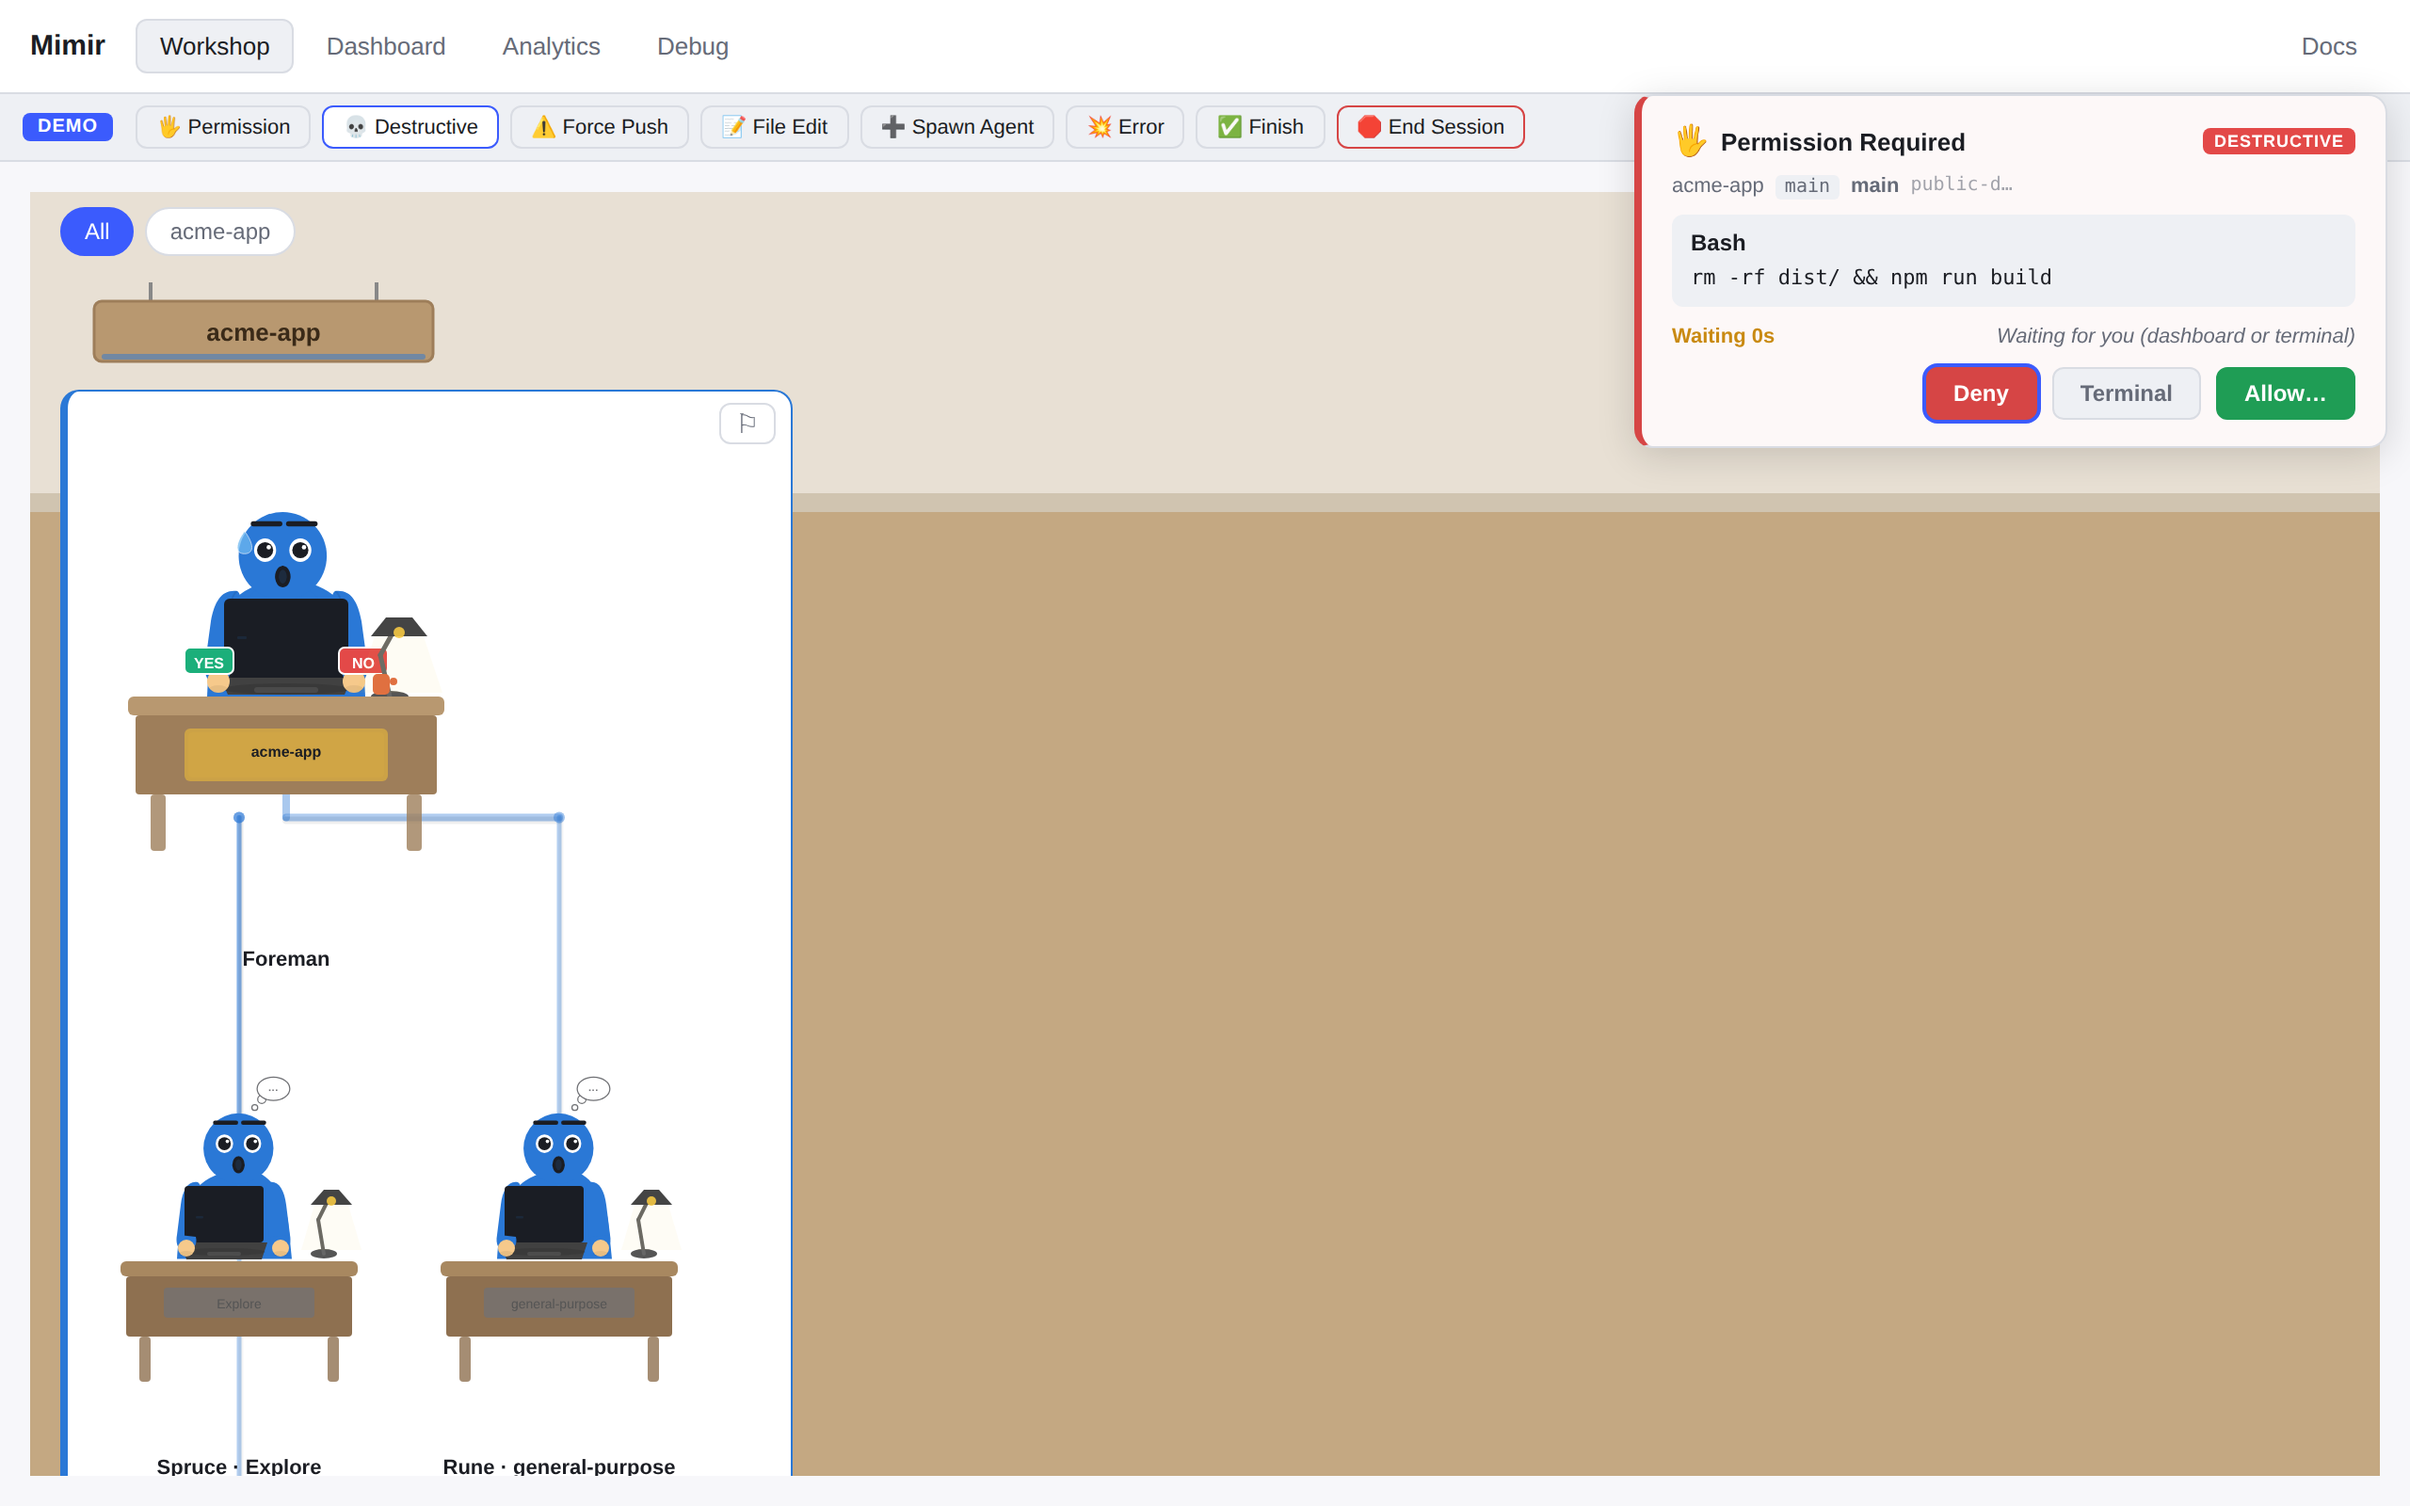
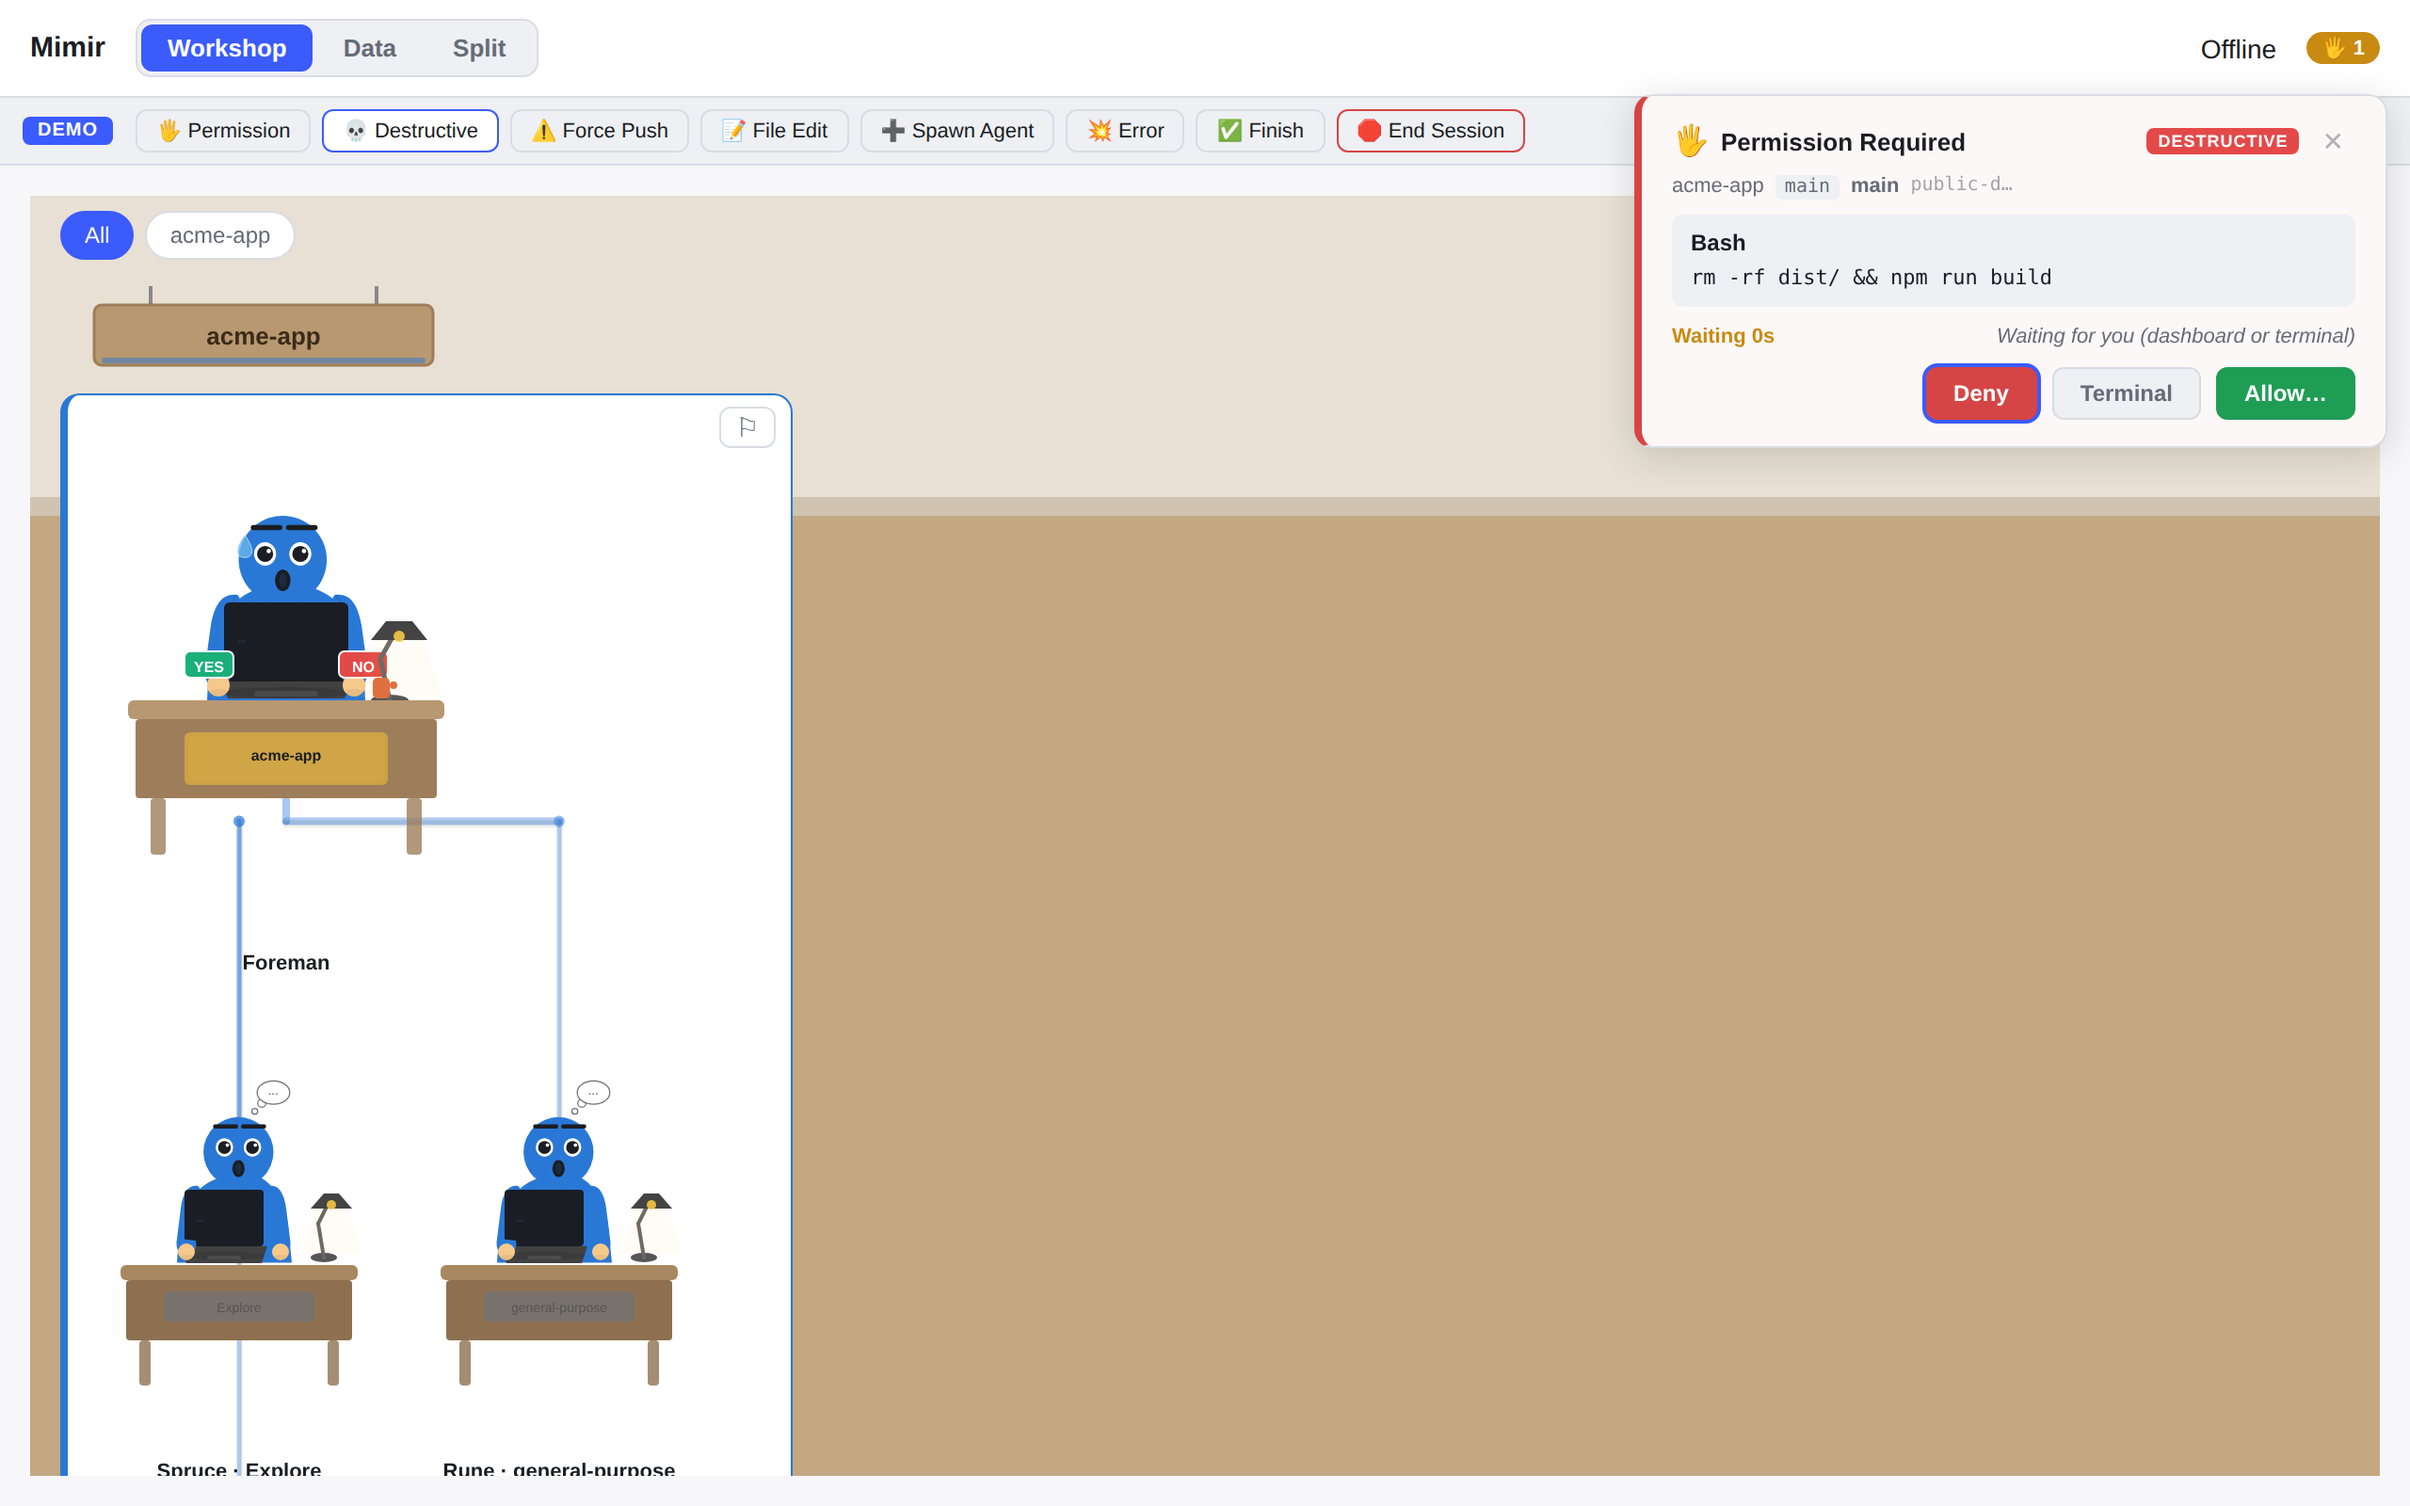
docs: update screenshots for new view switch (Data, Split) (#33)
- New data.png: Data dashboard with sidebar, KPI cards, tool chart
- New split.png: Workshop + KPI strip with live ticker
- Updated workshop.png and permission.png
- Fixed capture script: "Analytics" button → "Data" view switch
- README: updated screenshot reference

diff --git a/README.md b/README.md
@@ -43,7 +43,7 @@ delegation, permission request, error, and celebration as it happens.
 
 ### Analytics
 
-![Analytics overview: sessions, agents, tool calls, failures, permissions, total time](packages/web/public/screenshots/analytics.png)
+![Data dashboard: KPI cards, tool usage chart, sessions table](packages/web/public/screenshots/data.png)
 
 - **Session Analytics** — agents, tool calls, failures, duration per session
 - **Tool Execution Analytics** — most used tools, success/failure rates, avg duration, retries
